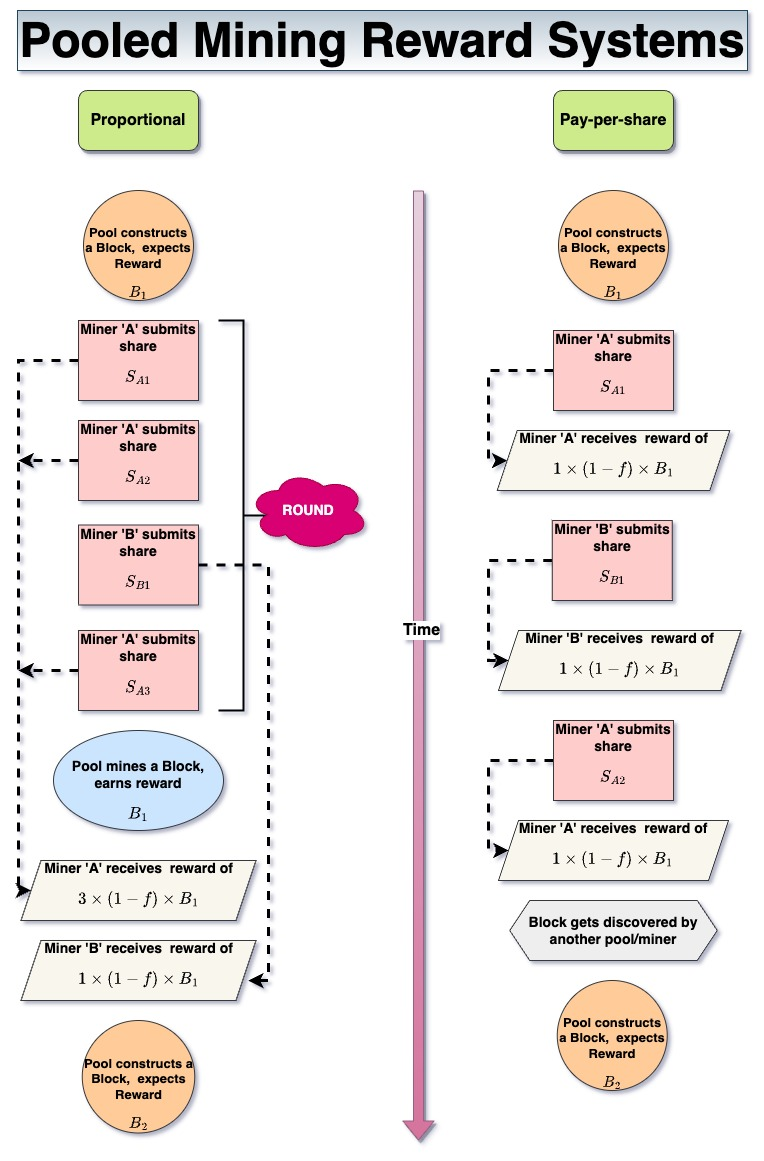
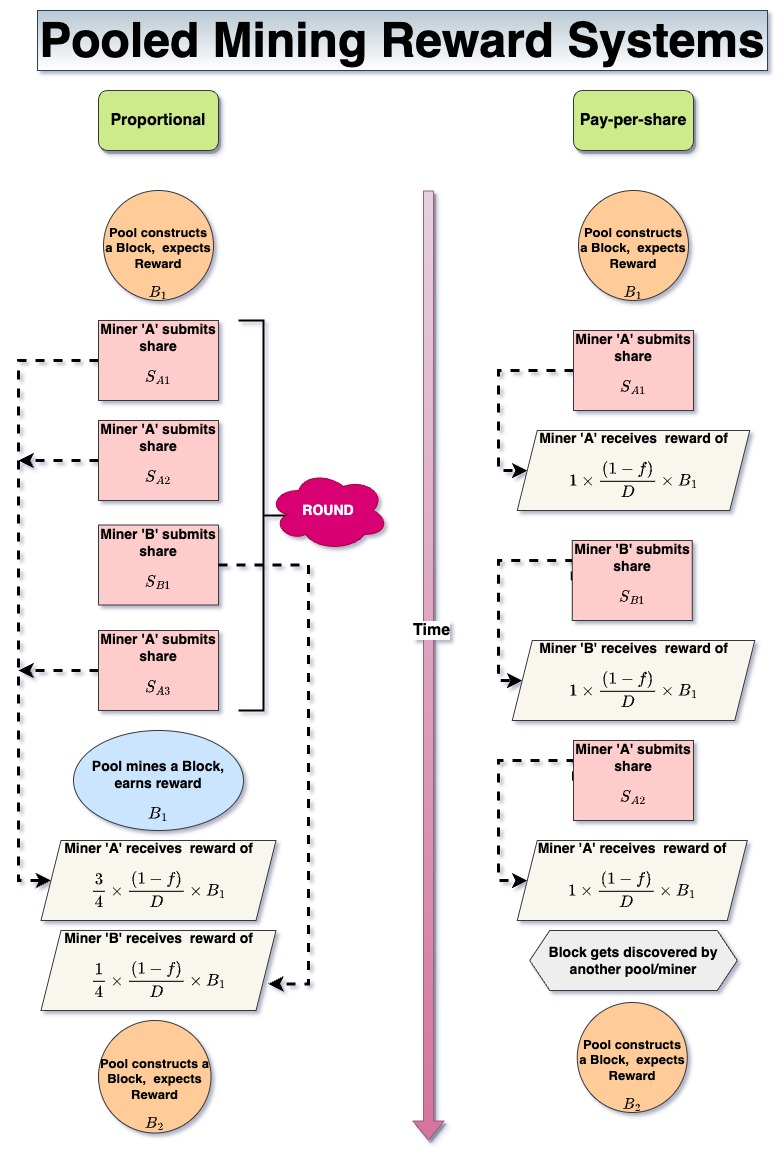
Added note about pool hopping

diff --git a/Mining/Pooled mining reward systems.md b/Mining/Pooled mining reward systems.md
@@ -1,11 +1,28 @@
 # Reward Systems
 
-The problem of rewarding a miner contributing towards a pool with his [fair share](Pooled%20Mining.md) , $(1-f) \times p \times \text{pool}_{\text{reward}}$ does not have a trivial solution. 
+The problem of rewarding a miner contributing towards a pool with his [fair share](Pooled%20Mining.md) does not have a trivial solution. 
 
 ### Proportional and Pay-Per-Share (PPS) system
 Proportional and PPS are the two basic systems to fairly distribute the mining reward among participants in the pool, in proportion to their contributions. 
+
+In a proportional system, the miners mine continuously and submit shares to the pool. The time between the last time the pool found a valid block and the time when the pool finds a valid block is called ***round***. When the pool finds a valid block, a round is said to be completed. If all other miners mining in the pool had submitted $N$ shares and the miner himself has submitted $n$ shares, he is entitled to a proportional reward of $\frac {n}{N}p(1-f)B$ . The miner's variance improves by a factor of $\frac{D}{ln D}$[^1]. 
+
+In a pay-per-share system, the pool operator absorbs all the variance of the individual miner. The miner is guaranteed a steady payout of $p(1-f)B$ . The payout schedule between the pool and the miner is negotiated at the start. 
 
 An illustration of the two systems i shown below:
 
 ![](images/pooled_mining_reward.jpg)
 
+#### Pool Hopping
+
+In a proportional pool, the miner can earn a reward above his fair share of $\frac {n}{N}p(1-f)B$ by strategically timing when to direct his hash rate towards the pool. This leads to those mining continuously in the same pool to receive less reward than their fair share. 
+The expected payout for a newly submitted share depends on the number of shares already submitted in the round. The total number of shares in a round $N$ follows a geometric distribution. From this property, follows the fact that shares submitted at the very start of the round are worth $ln D$ times the normal reward. An illustration of pool hoping is shown below
+
+![](images/pool_hopp.jpg)
+
+- When the total no of shares submitted to the pool exceeds 43.5% of the network difficulty $D$, the actual payout that the miner will receive becomes lower than the expected payout, $\frac {n}{N}p(1-f)B$ . 
+- The pool hopper switches to another pool when this threshold is reached. 
+- The honest miner, who continues to mine with the pool till a block is found, suffers as a result of pool hopping. Because the hash rate of the pool drops, it becomes less likely for the pool to find a block. Worst case, the honest miner can receive 43% less than his expected fair payout. 
+# References
+
+[^1]: Rosenfeld, Meni. “Analysis of Bitcoin Pooled Mining Reward Systems.” _ArXiv (Cornell University)_, 1 Jan. 2011, https://doi.org/10.48550/arxiv.1112.4980.\

diff --git a/Mining/Pooled Mining.md b/Mining/Pooled Mining.md
@@ -40,7 +40,7 @@ A basic overview of a mining pool's operation is illustrated below:
 ![](images/miningpool.jpg)
 
 
-The $\text{pool}_{\text{difficulty}}$   thereby the $\text{pool}_{\text{target}}$ that each miner has to satisfy, to earn a share, is set by the pool based on the miner's hash rate. It is a dynamically adjusted value. The faster a miner gets, the lower is the target assigned to him. However, always $\text{pool}_{\text{target}} > text{network}_{\text{target}}$  . 
+The $\text{pool}_{\text{difficulty}}$   thereby the $\text{pool}_{\text{target}}$ that each miner has to satisfy, to earn a share, is set by the pool based on the miner's hash rate. It is a dynamically adjusted value. The faster a miner gets, the lower is the target assigned to him. However, always $\text{pool}_{\text{target}} > \text{network}_{\text{target}}$  . 
 ### Standardization of Shares
 
 The $\text{pool}_{\text{difficulty}}$  for each contributing miner in the pool, is dynamically adjusted so as to optimize the communication between the pool and the miner. If the difficulty for the miner is too low relative to his hash rate, he will have to communicate frequently with the pool to submit his shares(i.e) hash < $\text{pool}_{\text{target}}$ .
